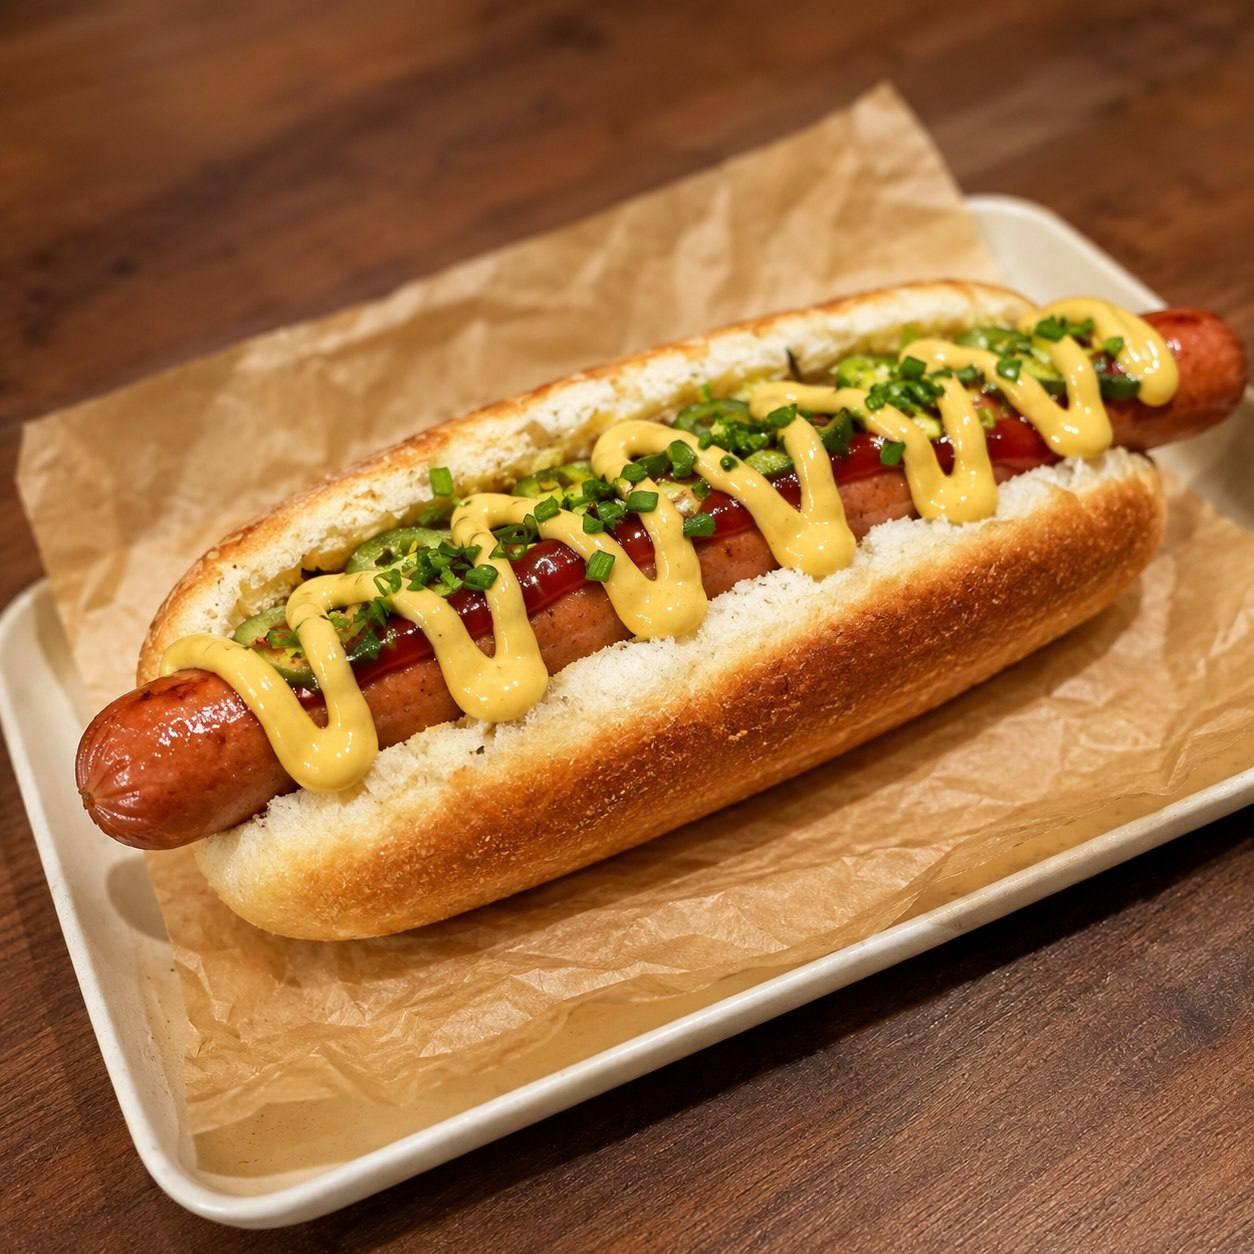
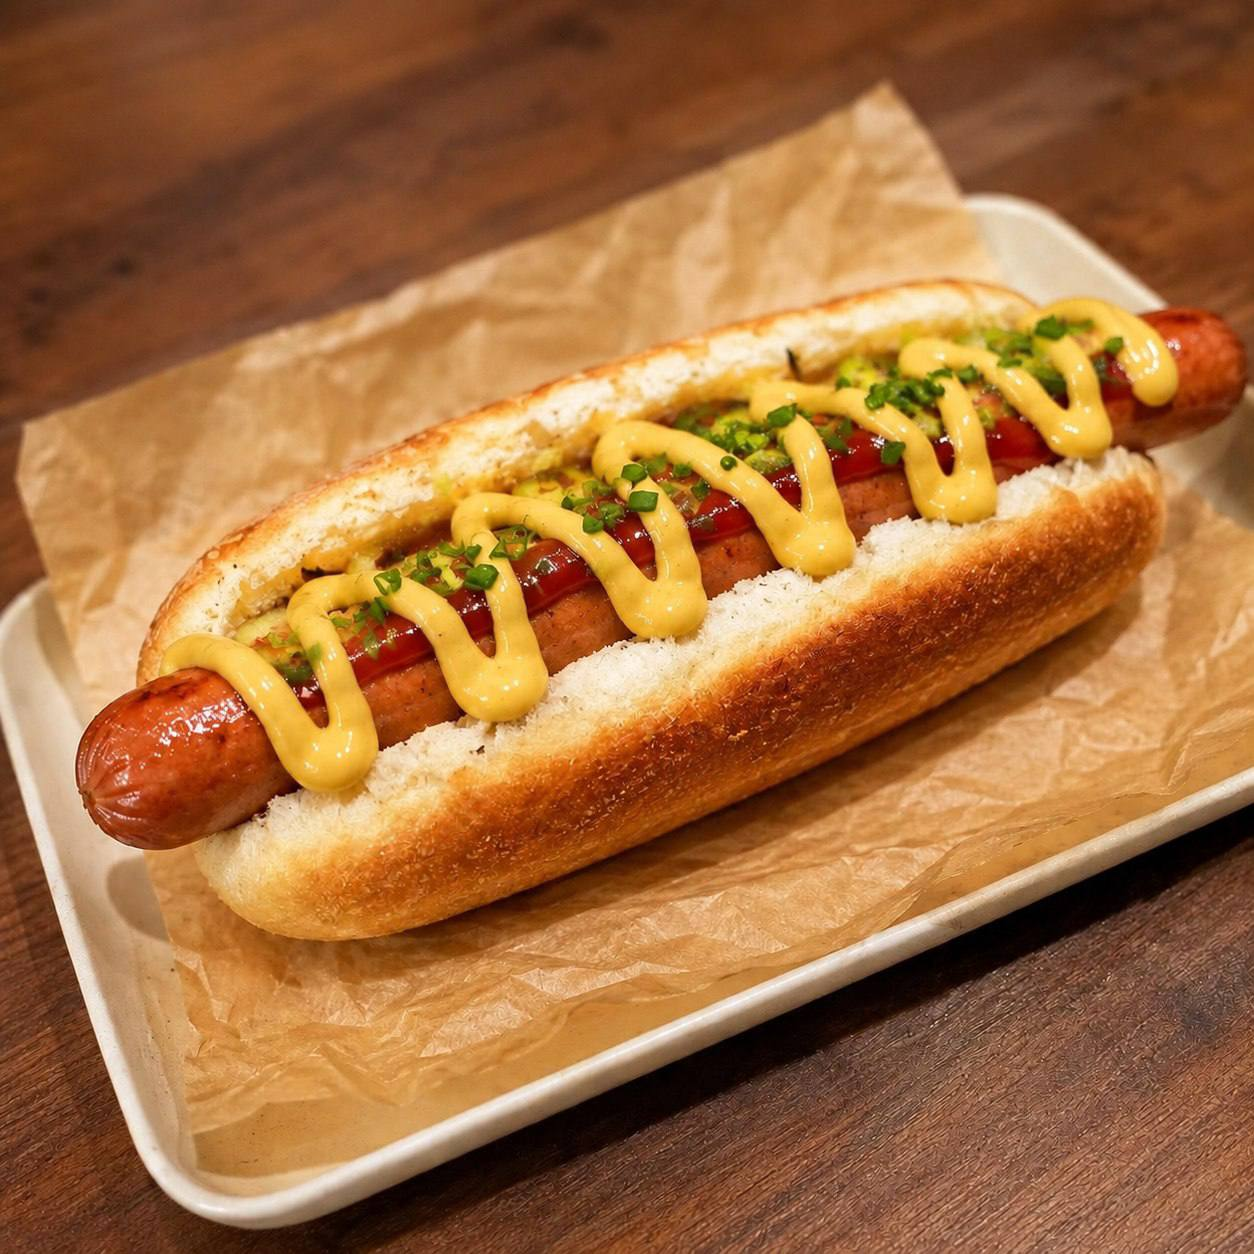
update_img_new_version4

diff --git a/index.html b/index.html
@@ -512,6 +512,45 @@
                             <div class="item-price"><sub>320 гр. </sub>320 ₽</div>
                         </div>
                     </div>
+
+                    <div class="menu-item">
+                        <div class="item-image">
+                            <img src="/new_img/photo_8_2026-05-31_17-49-36.jpg" alt="Большой хот дог с куриной сосиской и гага соусом">
+                        </div>
+                        <div class="item-content">
+
+                            <div class="item-info">
+                                <h3>
+                                    <i class="fas fa-dog item-icon"></i>
+                                    Гага 24
+                                    <span class="badge badge-chicken">Курица</span>
+                                </h3>
+                                <div class="ingredients">Состав:  Курица гриль, паста релиш, куриная сосиска, чесночный соус, сырный соус, тертый сыр, зелень, подается с битыми огурцами</div>
+                            </div>
+                            <div class="item-price"><sub>320 гр. </sub>350 ₽</div>
+                        </div>
+                    </div>
+
+
+                    <div class="menu-item">
+                        <div class="item-image">
+                            <img src="/new_img/photo_9_2026-05-31_17-49-36.jpg" alt="Большой хот дог с куриной сосиской и гага соусом">
+                        </div>
+                        <div class="item-content">
+
+                            <div class="item-info">
+                                <h3>
+                                    <i class="fas fa-dog item-icon"></i>
+                                    Хот Дог 24
+                                    <span class="badge badge-beef">Говядина</span>
+                                </h3>
+                                <div class="ingredients">Состав:  Рваная свинина терияки, паста релиш, говяжья сосиска, чесночный соус, сырный соус, тертый сыр, зелень, подается с битыми огурцами</div>
+                            </div>
+                            <div class="item-price"><sub>320 гр. </sub>390 ₽</div>
+                        </div>
+                    </div>
+
+
                 </div>
             </div>
 
@@ -806,7 +845,7 @@
                 <div class="menu-items">
                     <div class="menu-item">
                         <div class="item-image">
-                            <img src="/new_img/photo_2026-05-31_17-54-13.jpg" alt="Сэндвич с копченой грудкой">
+                            <img src="/new_img/photo_2026-05-31_17-54-13.jpg" alt="Сэндвич с курицей">
                         </div>
                         <div class="item-content">
                             <div class="item-info">
@@ -814,9 +853,25 @@
                                     <i class="fas fa-sandwich item-icon"></i>
                                     Сэндвич
                                 </h3>
-                                <div class="description">Свежий хлеб, копченая грудка, сырный соус, чесночный соус, салат айсберг, свежий лук, маринованные огурцы, с квашеной капустой и морковкой по-корейски</div>
+                                <div class="description">Свежий хлеб, грудка гриль, сырный соус, чесночный соус, салат айсберг, свежий лук, маринованные огурцы, с квашеной капустой и морковкой по-корейски</div>
                             </div>
                             <div class="item-price"><sub>250 гр. </sub>240 ₽</div>
+                        </div>
+                    </div>
+
+                    <div class="menu-item">
+                        <div class="item-image">
+                            <img src="/new_img/photo_6_2026-05-31_17-49-36.jpg" alt="Сэндвич с курицей и шпинатом">
+                        </div>
+                        <div class="item-content">
+                            <div class="item-info">
+                                <h3>
+                                    <i class="fas fa-sandwich item-icon"></i>
+                                    Сэндвич со шпинатом
+                                </h3>
+                                <div class="description">Свежий хлеб, грудка гриль, шпинат, яйцо, сырный соус, чесночный соус, салат айсберг, свежий лук, маринованные огурцы, с квашеной капустой и морковкой по-корейски</div>
+                            </div>
+                            <div class="item-price"><sub>250 гр. </sub>270 ₽</div>
                         </div>
                     </div>
 